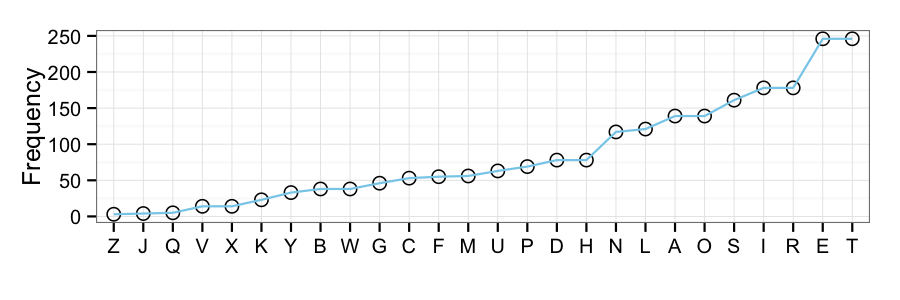
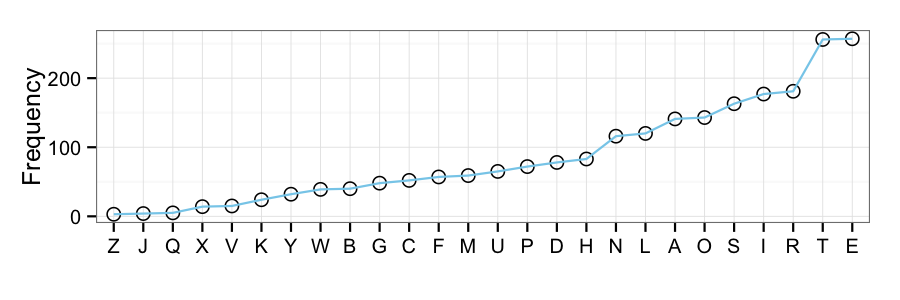
publishing deck

diff --git a/index.html b/index.html
@@ -12,7 +12,7 @@
   <link rel="stylesheet" href="libraries/frameworks/io2012/css/phone.css" 
     media="only screen and (max-device-width: 480px)" >
   <link rel="stylesheet" href="libraries/frameworks/io2012/css/slidify.css" >
-  <link rel="stylesheet" href="libraries/highlighters/highlight/css/tomorrow.css" />
+  <link rel="stylesheet" href="libraries/highlighters/highlight.js/css/tomorrow.css" />
   <base target="_blank"> <!-- This amazingness opens all links in a new tab. -->  <link rel=stylesheet href="./assets/css/ribbons.css"></link>
 
   
@@ -54,7 +54,7 @@
 <slide class="" id="slide-2" style="background:;">
   <article data-timings="">
     <ul>
-<li>Clone this repository for easy authoring of presentations from R Studio, using R Markdown, knitr and slidify. 
+<li>Clone this repository for easy authoring of presentations from R Studio, using R Markdown, knitr and slidify.<br>
 &gt; * This slideshow is an example of what the resulting slideshow will look like, and the source index.Rmd file serves as a useful template with (hopefully) good defaults for various settings.
 &gt; * Detailed instructions are in the <a href="readme">readme</a> file of this repository.</li>
 </ul>
@@ -74,7 +74,7 @@
 &gt; library(slidify)
 &gt; library(knitr)
 &gt; opts_chunk$set(tidy = TRUE, results = &quot;asis&quot;, message = FALSE, prompt = TRUE, 
-+     dev.args = list(bg = &quot;transparent&quot;))
++     dev.args = list(bg = &quot;transparent&quot;), dpi = 150, fig.align = &quot;center&quot;)
 &gt; options(xtable.comment = FALSE)  # xtable generates ugly comments by default
 </code></pre>
 
@@ -101,12 +101,12 @@
 
 <table border=1>
 <tr> <th> Var1 </th> <th> Freq </th>  </tr>
-  <tr> <td> A </td> <td align="right"> 139 </td> </tr>
-  <tr> <td> B </td> <td align="right">  38 </td> </tr>
-  <tr> <td> C </td> <td align="right">  53 </td> </tr>
+  <tr> <td> A </td> <td align="right"> 141 </td> </tr>
+  <tr> <td> B </td> <td align="right">  40 </td> </tr>
+  <tr> <td> C </td> <td align="right">  52 </td> </tr>
   <tr> <td> D </td> <td align="right">  78 </td> </tr>
-  <tr> <td> E </td> <td align="right"> 246 </td> </tr>
-  <tr> <td> F </td> <td align="right">  55 </td> </tr>
+  <tr> <td> E </td> <td align="right"> 257 </td> </tr>
+  <tr> <td> F </td> <td align="right">  57 </td> </tr>
    </table>
 
   </article>
@@ -122,8 +122,7 @@
 <li>After having obtained the counts, I want to sort and plot them.</li>
 </ul>
 
-<pre><code class="r">&gt; # Ordering data frames is unnecessarily complicated in R.
-&gt; letters = letters[order(letters$Freq), ]
+<pre><code class="r">&gt; letters = letters[order(letters$Freq), ]
 &gt; letters$Var1 = factor(letters$Var1, as.character(letters$Var1))
 &gt; ggplot(letters, aes(Var1, Freq)) + geom_point(shape = 21, size = 3) + geom_line(aes(group = 1), 
 +     color = &quot;skyblue&quot;) + labs(x = &quot;&quot;, y = &quot;Frequency&quot;) + theme_bw() + theme(plot.background = element_rect(fill = &quot;transparent&quot;, 
@@ -208,5 +207,9 @@
 </body>
   <!-- Load Javascripts for Widgets -->
   
+  <!-- LOAD HIGHLIGHTER JS FILES -->
+  <script src="libraries/highlighters/highlight.js/highlight.pack.js"></script>
+  <script>hljs.initHighlightingOnLoad();</script>
+  <!-- DONE LOADING HIGHLIGHTER JS FILES -->
    
   </html>

diff --git a/index.md b/index.md
@@ -4,7 +4,7 @@ subtitle    : Create presentations from R Studio
 author      : Matti
 job         : 
 framework   : io2012        # {io2012, html5slides, shower, dzslides, ...}
-highlighter : highlight  # {highlight.js, prettify, highlight}
+highlighter : highlight.js  # {highlight.js, prettify, highlight}
 hitheme     : tomorrow      # 
 widgets     : []            # {mathjax, quiz, bootstrap}
 mode        : selfcontained # {standalone, draft}
@@ -15,7 +15,7 @@ knit        : slidify::knit2slides
 
 ---
 
-* Clone this repository for easy authoring of presentations from R Studio, using R Markdown, knitr and slidify. 
+* Clone this repository for easy authoring of presentations from R Studio, using R Markdown, knitr and slidify.  
 > * This slideshow is an example of what the resulting slideshow will look like, and the source index.Rmd file serves as a useful template with (hopefully) good defaults for various settings.
 > * Detailed instructions are in the [readme](readme) file of this repository.
 
@@ -29,7 +29,7 @@ knit        : slidify::knit2slides
 > library(slidify)
 > library(knitr)
 > opts_chunk$set(tidy = TRUE, results = "asis", message = FALSE, prompt = TRUE, 
-+     dev.args = list(bg = "transparent"))
++     dev.args = list(bg = "transparent"), dpi = 150, fig.align = "center")
 > options(xtable.comment = FALSE)  # xtable generates ugly comments by default
 ```
 
@@ -50,12 +50,12 @@ knit        : slidify::knit2slides
 
 <table border=1>
 <tr> <th> Var1 </th> <th> Freq </th>  </tr>
-  <tr> <td> A </td> <td align="right"> 139 </td> </tr>
-  <tr> <td> B </td> <td align="right">  38 </td> </tr>
-  <tr> <td> C </td> <td align="right">  53 </td> </tr>
+  <tr> <td> A </td> <td align="right"> 141 </td> </tr>
+  <tr> <td> B </td> <td align="right">  40 </td> </tr>
+  <tr> <td> C </td> <td align="right">  52 </td> </tr>
   <tr> <td> D </td> <td align="right">  78 </td> </tr>
-  <tr> <td> E </td> <td align="right"> 246 </td> </tr>
-  <tr> <td> F </td> <td align="right">  55 </td> </tr>
+  <tr> <td> E </td> <td align="right"> 257 </td> </tr>
+  <tr> <td> F </td> <td align="right">  57 </td> </tr>
    </table>
 
 ---
@@ -64,7 +64,6 @@ knit        : slidify::knit2slides
 * After having obtained the counts, I want to sort and plot them.
 
 ```r
-> # Ordering data frames is unnecessarily complicated in R.
 > letters = letters[order(letters$Freq), ]
 > letters$Var1 = factor(letters$Var1, as.character(letters$Var1))
 > ggplot(letters, aes(Var1, Freq)) + geom_point(shape = 21, size = 3) + geom_line(aes(group = 1), 
